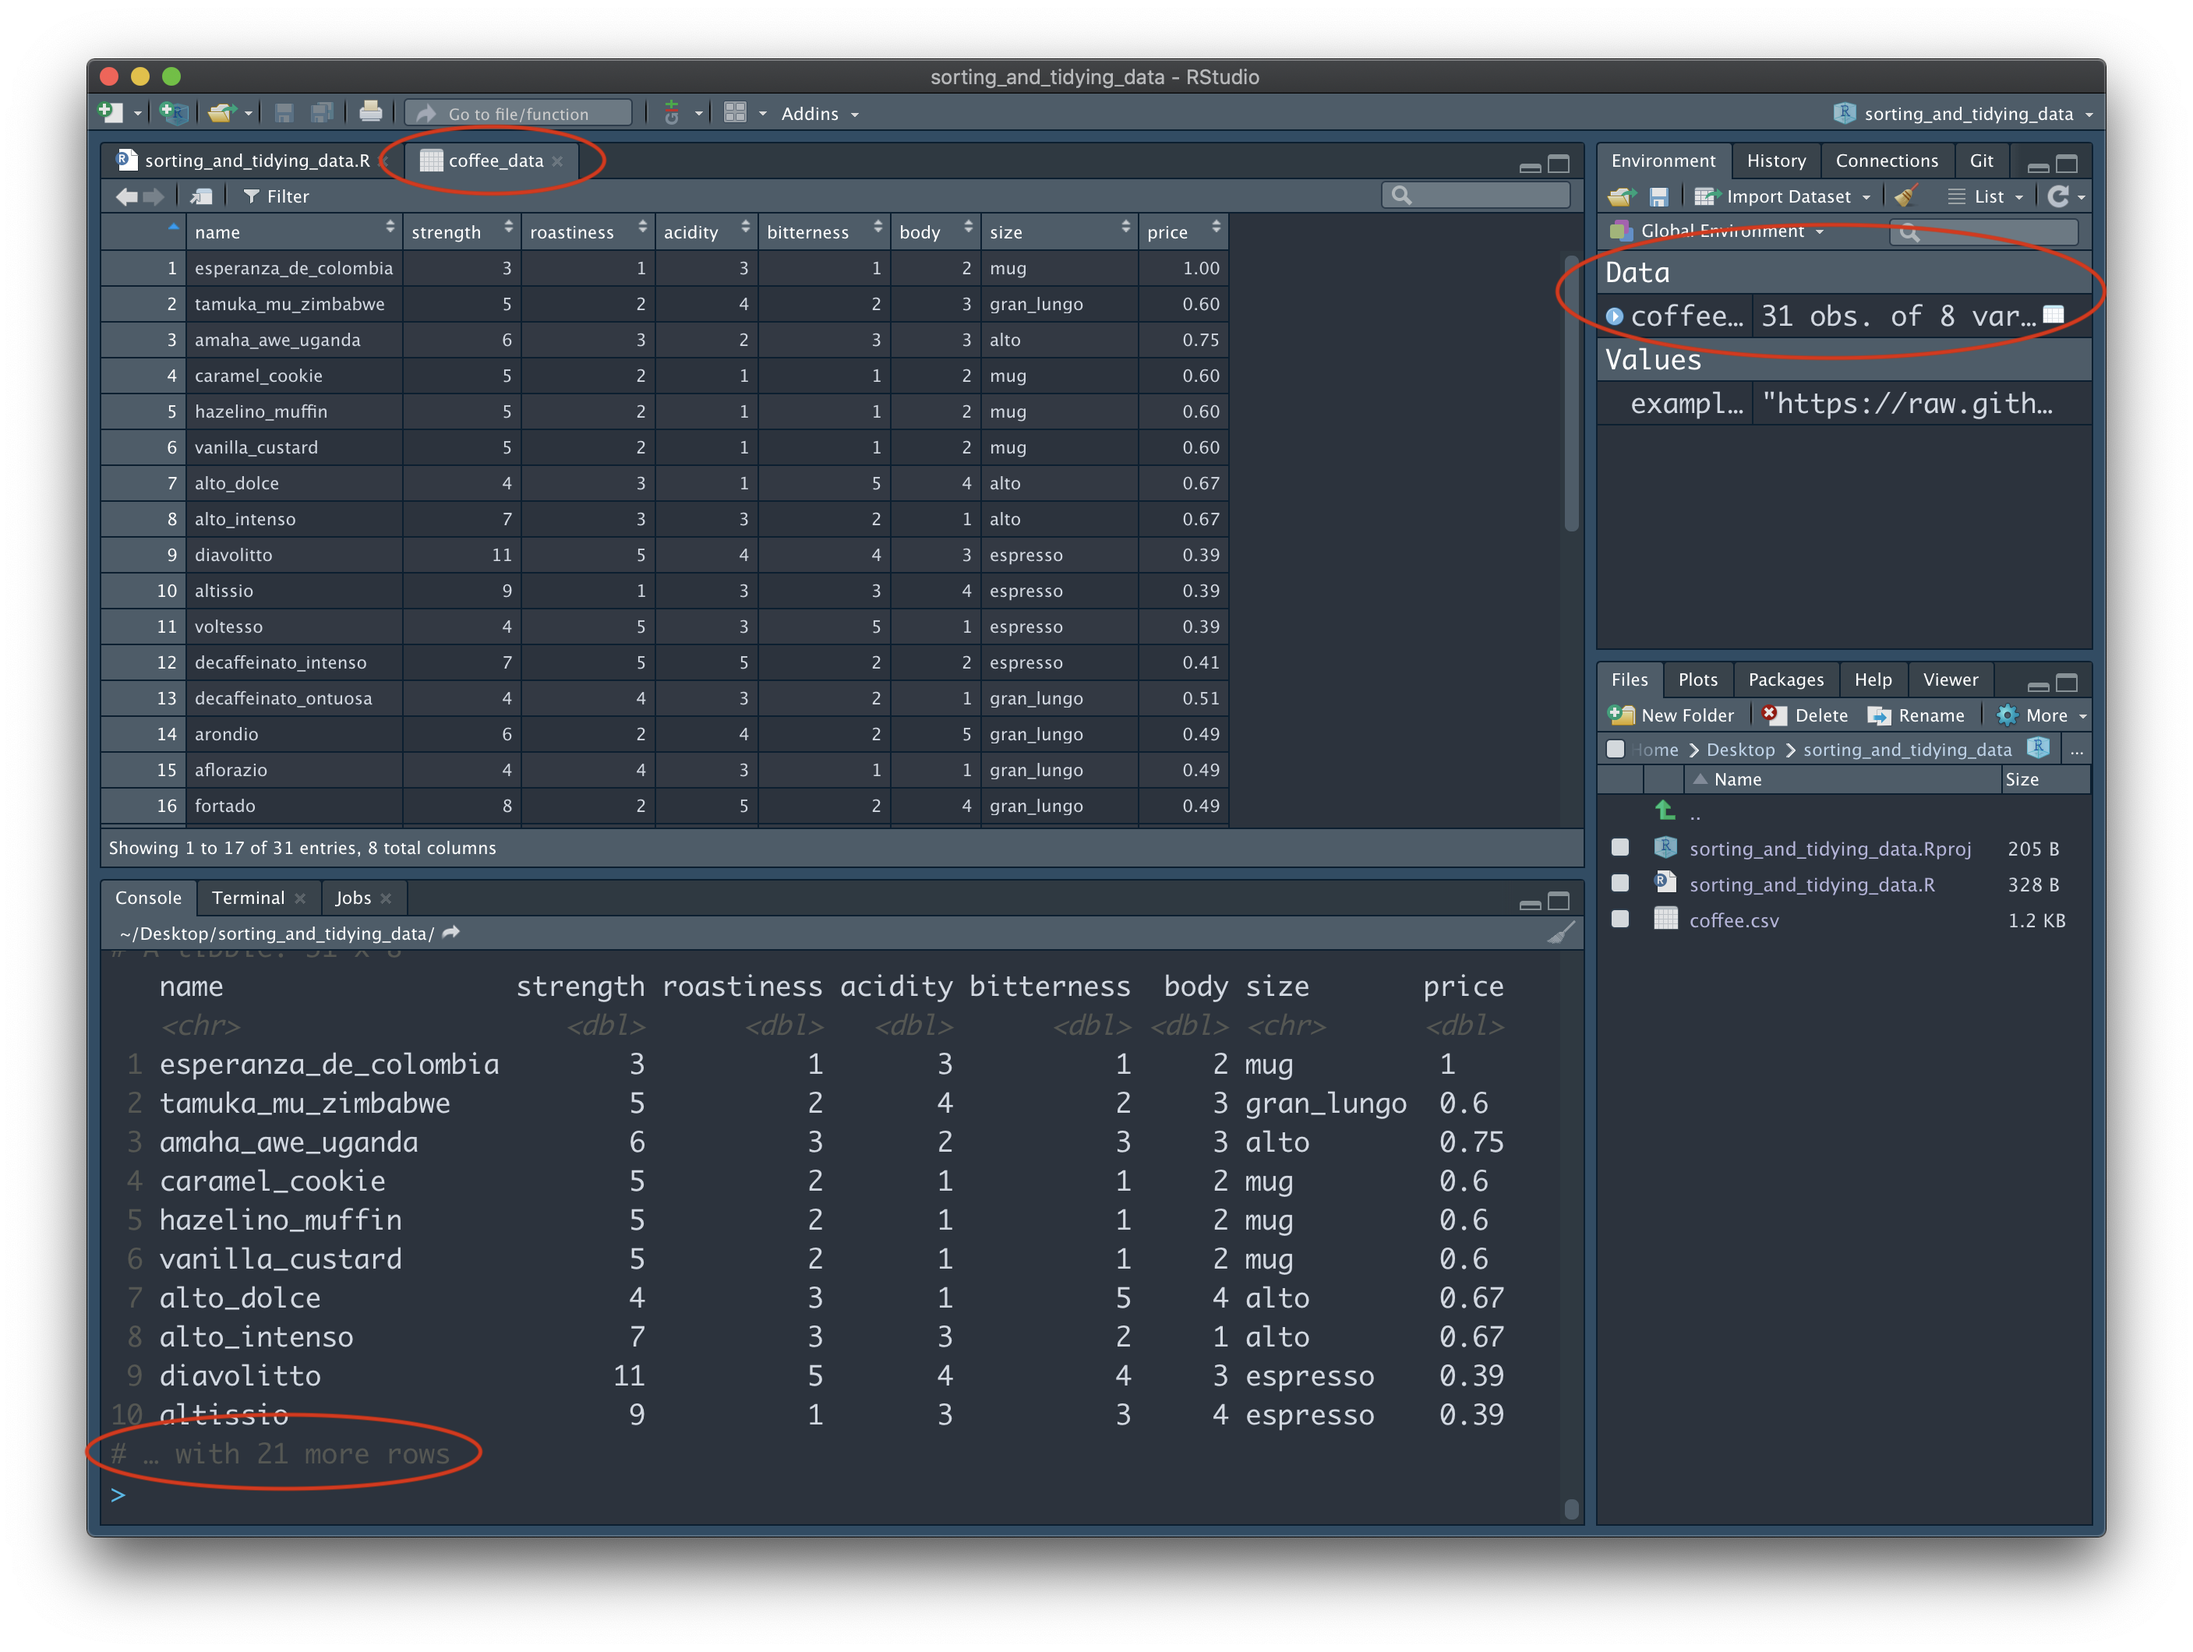
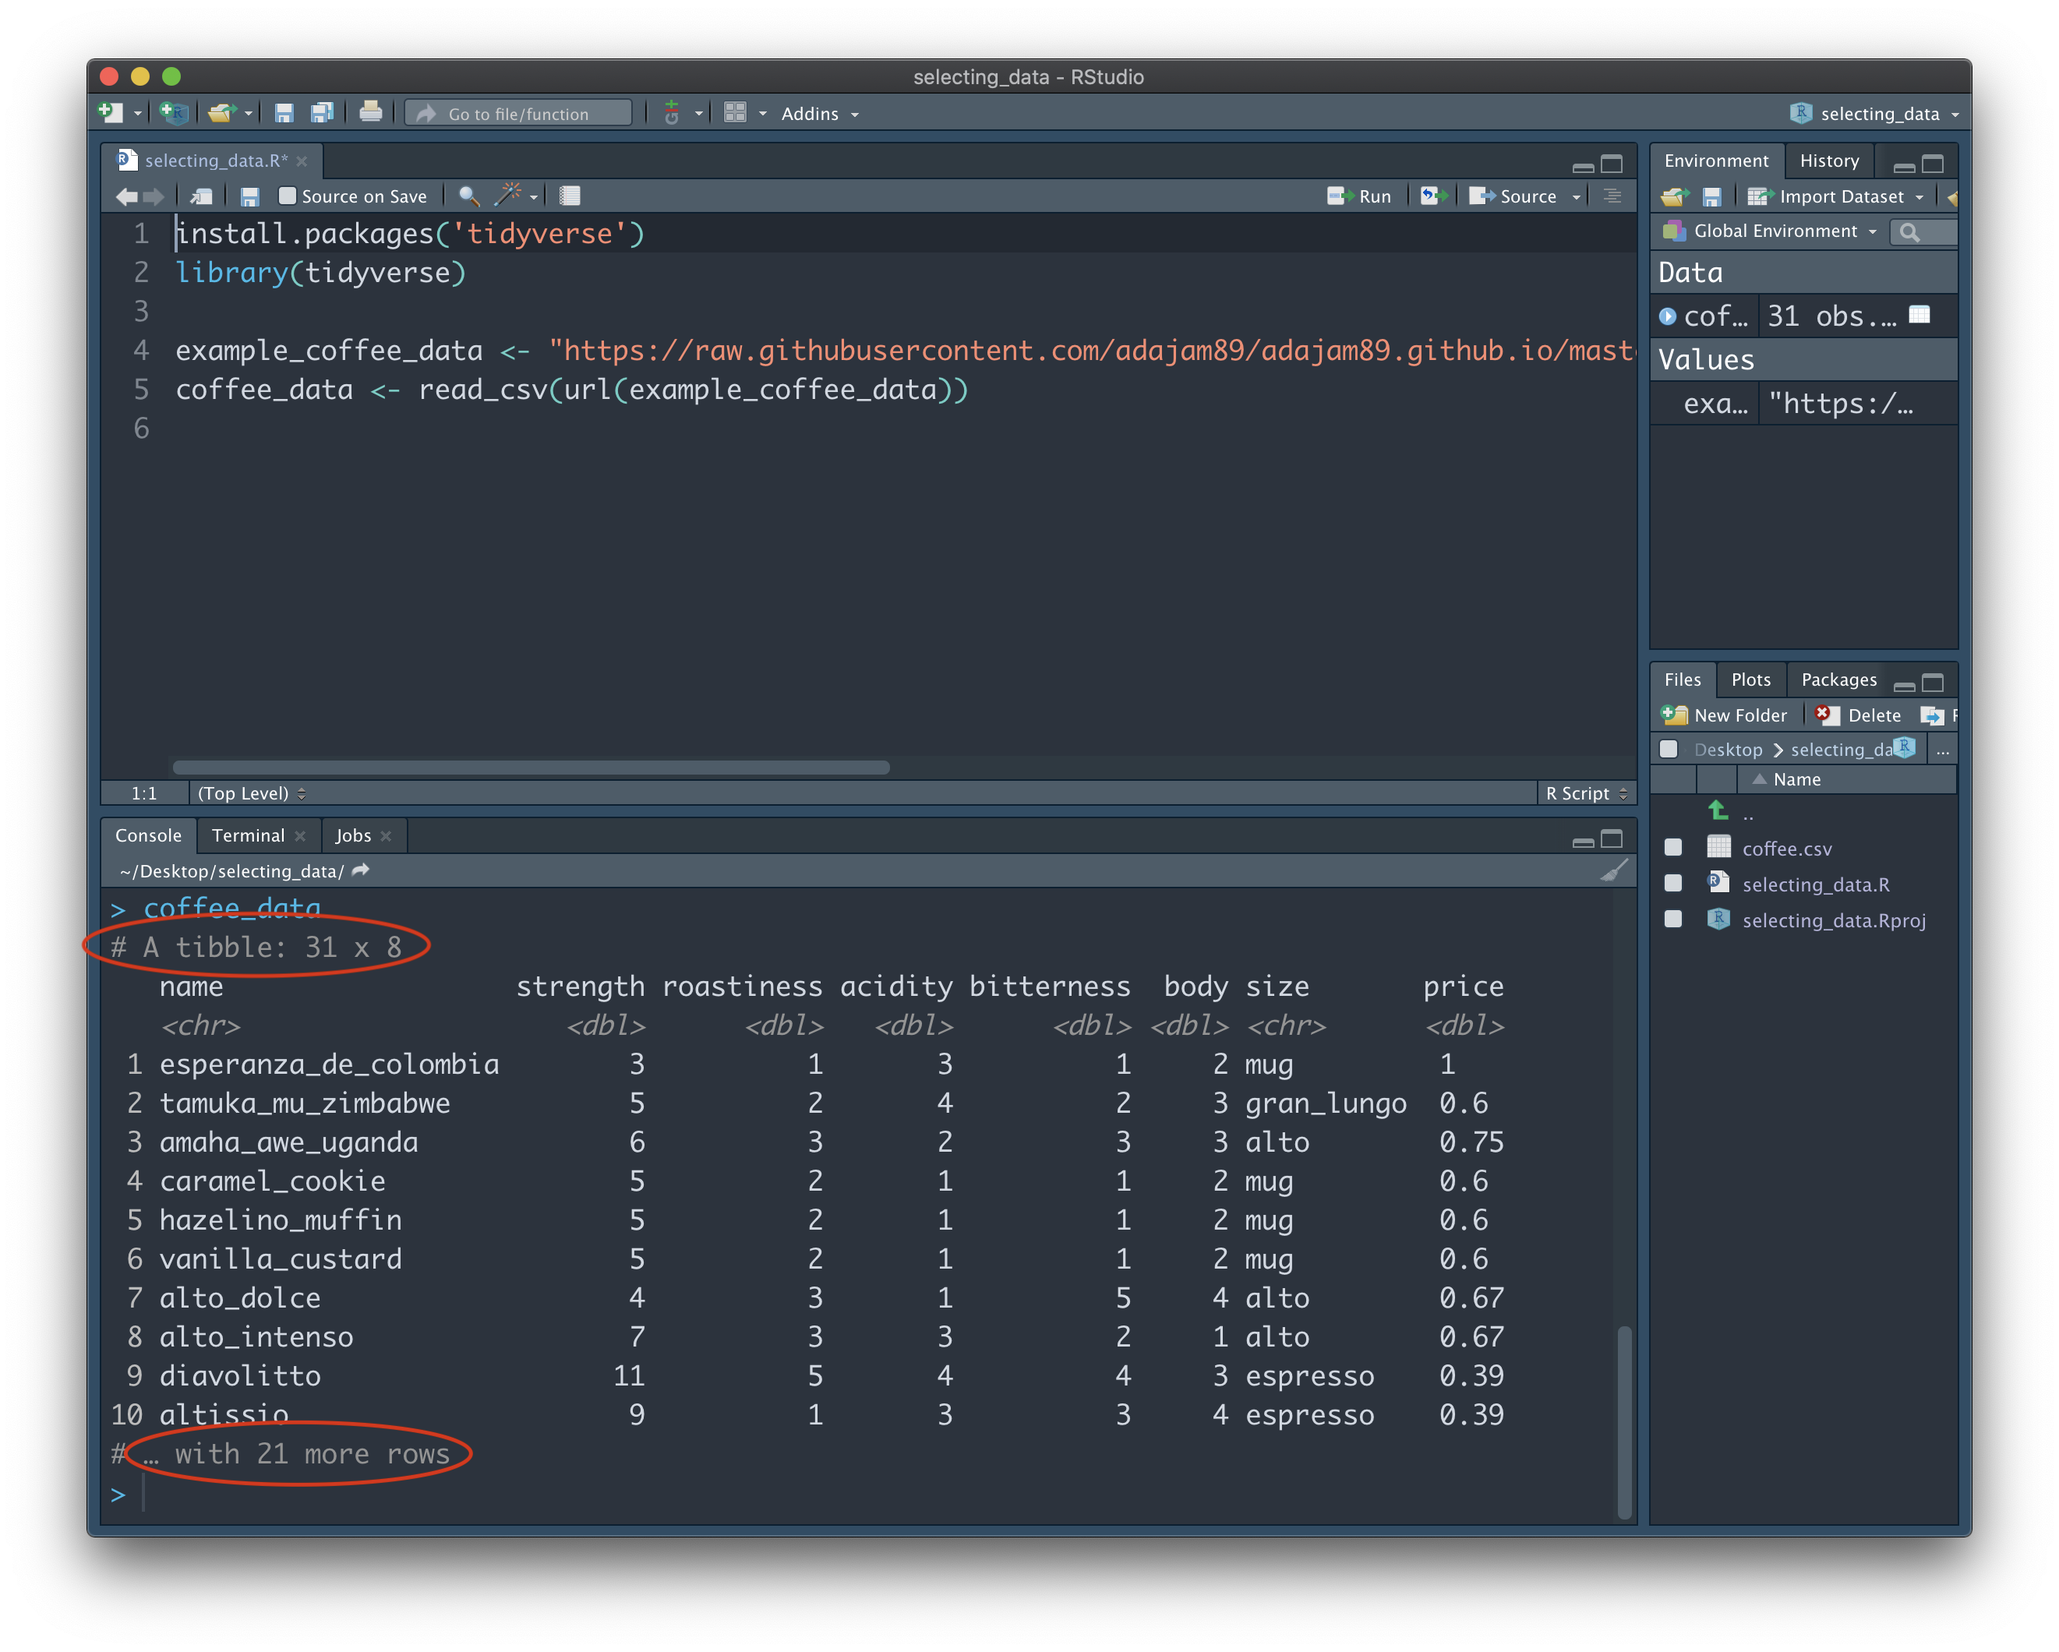
1532

diff --git a/selecting_data.html b/selecting_data.html
@@ -104,7 +104,7 @@
 
 <p>Before we begin, you'll first need to have some data in RStudio. If you're following on from the previous guide (<a href="importing_data_the_basics" class="red-link">Importing data: the basics</a>), you're already good to go! Just make sure you have the Project file you created last time open, along with the R script.</p>
 
-<p>If you're jumping in fresh with this guide, simply copy and paste the code below into the Source window. Highlight everything, and then press "Run". This will bring you up to speed, and get some example data into RStudio for you.</p>
+<p>If you're jumping in fresh with this guide, simply copy and paste the code below into the Source window. Highlight everything, and then press "Run". This will bring you up to speed, and get some example data into RStudio for you:</p>
 
 <pre>
   <code>
@@ -113,22 +113,30 @@
 
     example_coffee_data <- "https://raw.githubusercontent.com/adajam89/adajam89.github.io/master/coffee.csv"    # This is the location of some example data of mine that is stored online.
     coffee_data <- read_csv(url(example_coffee_data))   # Import the data.
-    coffee_data   # Display the data. 
   </code>
 </pre>
 
-<p>First, let's have a little look at the data to see what we're dealing with. To do this, we can type the name of the variable that contains the data - "coffee_data" - into the Console. 
+<p>First, let's have a little look at the data to see what we're dealing with. To do this, we can type the name of the variable that contains the data - "coffee_data" - into the Console:</p>
+
+<img src="images/selecting_data_1.png" alt="Image" class="screenshot-no-border"><br>
+
+<p>We can see that the dataset isn't too big. The note at the top: "# A tibble: 31 x 8", tells us that our data has 31 rows, and 8 columns. A 'tibble' is the type of structure that contains our data. If you look just below row 10 of the output, you should see the notice "# … with 21 more rows". This tells us that the entire dataset is not being shown to us here. Instead, RStudio is just giving us a glimpse of the first 10 rows, so as not to clutter the Console. You may be wondering why it doesn't just show us the whole thing...Imagine our data is much longer (e.g. 10,000 rows) - if the Console were to show us the entire dataset each time we typed its' name, it would soon become very annoying to scroll up and down through the Console!</p>
+
+<img src="images/selecting_data_1.png" alt="Image" class="screenshot-no-border"><br>
+
+
+
+
 
 
 To save us having to manually type it into the Console again and again, we can simply add the variable name on its' own line to the end of our script. Now, whenever we run our script, it will automatically show us the final state of the data. Your script and window should look similar to this:</p>
 
-<img src="images/selecting_data_1.png" alt="Image" class="screenshot-no-border"><br>
 
 <hr>
 <p><b><i>Note:</i></b> If you're using your own data here, it's important to check that it is formatted in the correct way. Specifically, you want each row to represent a unique 'case'. In other words, each participant should get their own row. In our example data, we could think of the different coffee names as individual participants. They each have their own row, and each have their own data toward a number of shared variables, such as 'strength', 'bitterness', and 'price'.</p>
 <hr>
 
-<p>If you look just below row 10 of the output, you should see the notice "# … with 21 more rows". This tells us that the dataset is longer than what we can see here - RStudio is just giving us a glimpse of the first 10 rows, so as not to clutter the Console. You may be wondering why it doesn't just show us the whole thing...but imagine if your data was much longer than this (e.g. 10,000 rows) - navigating and scolling in the Console would become extremely annoying if we had to scroll through all those rows!). If you want to see the full data, look to your Environment panel (in my screenshot, it's located in the top right) and under "Data", click the "coffee_data" variable. A new tab will open that allows us to browse all rows and columns:</p>
+ If you want to see the full data, look to your Environment panel (in my screenshot, it's located in the top right) and under "Data", click the "coffee_data" variable. A new tab will open that allows us to browse all rows and columns:</p>
 
 <img src="images/selecting_data_2.png" alt="Image" class="screenshot-no-border"><br><br><br>
 
